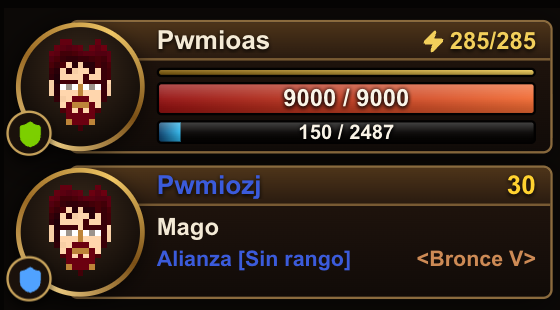
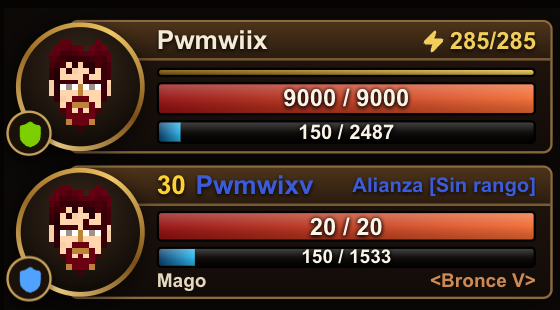
HUD: el objetivo usuario muestra vida y maná, con el bando y su rango en la banda
- El server manda la vida y el maná del usuario clickeado en targetState.
  Se refrescan solos en el chequeo de estados.
- El marco del objetivo usuario, del mismo tamaño que antes:
  - banda: nivel, nombre y, a la derecha, el bando con su rango
    ("Alianza [Sin rango]"), en el color del bando;
  - barras de vida y de maná ("Sin maná" si la clase no tiene);
  - un renglón con la clase (más clan y Newbie) y la liga de ranked.

diff --git a/frontend/components/TargetUnitFrame.tsx b/frontend/components/TargetUnitFrame.tsx
@@ -8,8 +8,8 @@ import UnitFrameShell, { Bar, HeadPortrait, PortraitBadge, StandingBadge } from 
 
 // El marco del objetivo (escritorio), del mismo tamaño que el del personaje: lo último que clickeaste. Va debajo del
 // marco del personaje cuando nada te persigue (si hay aggro, ese lugar es de la grilla de criaturas).
-// De una criatura: su vida y si es agresiva, neutral o amistosa. De un usuario: lo mismo que dice el clic en la
-// consola (clase, bando, rango y liga); su vida no, porque el clic nunca la mostró.
+// De una criatura: su vida y si es agresiva, neutral o amistosa. De un usuario: su vida y su maná, el bando con su
+// rango, la clase y la liga de ranked.
 
 const NPC_DISPOSITION = {
     agresivo: { label: "Agresivo", name: "text-red-300", tag: "text-red-400", icon: Swords },
@@ -108,6 +108,9 @@ function UserTarget({ target }: { target: Extract<TargetStatePayload, { kind: "u
             badge={<StandingBadge color={target.color} testId="target-frame-standing" />}
             band={
                 <>
+                    <span data-testid="target-frame-level" title="Nivel" className="shrink-0 text-[11px] font-bold leading-none tabular-nums text-amber-300 [text-shadow:0_1px_2px_rgba(0,0,0,0.9)]">
+                        {target.level}
+                    </span>
                     <span
                         data-testid="target-frame-name"
                         className="min-w-0 flex-1 truncate text-[11px] font-semibold leading-none [text-shadow:0_1px_2px_rgba(0,0,0,0.9)]"
@@ -115,26 +118,56 @@ function UserTarget({ target }: { target: Extract<TargetStatePayload, { kind: "u
                     >
                         {target.name}
                     </span>
+                    {/* El bando y su rango (o que está muerto), a la derecha de la banda. */}
                     {target.dead ? (
                         <span className="flex shrink-0 items-center gap-0.5 text-[8px] font-bold uppercase tracking-[0.08em] text-stone-300">
                             <Skull className="h-2.5 w-2.5" /> Muerto
                         </span>
-                    ) : null}
-                    <span data-testid="target-frame-level" title="Nivel" className="shrink-0 text-[11px] font-bold leading-none tabular-nums text-amber-300 [text-shadow:0_1px_2px_rgba(0,0,0,0.9)]">
-                        {target.level}
-                    </span>
+                    ) : (
+                        <span
+                            data-testid="target-frame-standing-line"
+                            className="max-w-[62%] shrink-0 truncate text-[8.5px] font-bold leading-none [text-shadow:0_1px_2px_rgba(0,0,0,0.9)]"
+                            style={{ color: target.color || "#d7c4a4" }}
+                        >
+                            {standingLine}
+                        </span>
+                    )}
                 </>
             }
+            bodyClassName="space-y-[2px] py-[2px]"
         >
-            <div className="flex min-w-0 items-baseline gap-1 text-[10px] font-semibold leading-[12px] text-[#f4ead6]">
+            <Bar
+                testId="target-frame-hp"
+                title={`Vida: ${target.hp}/${target.maxHp}`}
+                value={target.hp}
+                max={target.maxHp}
+                fromColor="#951212"
+                toColor="#f06b34"
+                heightClass="h-[13px]"
+                showText
+                textClass="text-[10px]"
+            />
+            {target.maxMana > 0 ? (
+                <Bar
+                    testId="target-frame-mana"
+                    title={`Maná: ${target.mana}/${target.maxMana}`}
+                    value={target.mana}
+                    max={target.maxMana}
+                    fromColor="#0e436f"
+                    toColor="#2fb8ed"
+                    heightClass="h-[9px]"
+                    showText
+                    textClass="text-[8px]"
+                />
+            ) : (
+                <div data-testid="target-frame-mana" className="flex h-[9px] items-center text-[8px] font-semibold leading-none text-stone-500">
+                    Sin maná
+                </div>
+            )}
+            <div className="flex h-[8px] min-w-0 items-center gap-1 text-[8px] font-semibold leading-none text-[#e6d8bd]">
                 <span className="shrink-0">{target.className}</span>
-                {target.newbie ? <span className="shrink-0 text-[8px] font-bold uppercase text-emerald-300">Newbie</span> : null}
-                {target.clan ? <span className="min-w-0 truncate text-[9px] text-[#cbb18e]">{target.clan}</span> : null}
-            </div>
-            <div className="flex min-w-0 items-baseline gap-1 text-[9px] font-semibold leading-[11px]">
-                <span data-testid="target-frame-standing-line" className="min-w-0 truncate" style={{ color: target.color || "#d7c4a4" }}>
-                    {standingLine}
-                </span>
+                {target.newbie ? <span className="shrink-0 font-bold uppercase text-emerald-300">Newbie</span> : null}
+                {target.clan ? <span className="min-w-0 truncate text-[#cbb18e]">{target.clan}</span> : null}
                 <span className="ml-auto shrink-0 font-bold" style={{ color: target.rankedColor }}>
                     &lt;{target.rankedLabel}&gt;
                 </span>

diff --git a/server/src/protocol.ts b/server/src/protocol.ts
@@ -1118,8 +1118,8 @@ export type ProtocolApi = {
 const protocol = {} as ProtocolApi;
 
 // Marco del objetivo (HUD de escritorio): lo último que el jugador clickeó, una criatura o un usuario, con lo mismo
-// que dice el clic en la consola (de los usuarios no se muestra la vida, como hasta ahora). Se refresca en el chequeo
-// de estados y se borra si el objetivo muere, se va de la vista o deja de verse.
+// que dice el clic en la consola, más la vida y el maná del usuario (pedido de Leandro, como el marco de WoW). Se
+// refresca en el chequeo de estados y se borra si el objetivo muere, se va de la vista o deja de verse.
 const TARGET_FRAME_RANGE_X = 14;
 const TARGET_FRAME_RANGE_Y = 10;
 
@@ -1214,6 +1214,10 @@ function buildTargetFramePayload(viewer: RuntimeCharacter): Record<string, unkno
         rankedColor: RANKED_CONSOLE_COLORS[rank.tier] ?? RANKED_CONSOLE_COLORS.BRONCE,
         newbie: game.isNewbieCharacter(target),
         dead: Boolean(target.dead),
+        hp: Number(target.hp ?? 0),
+        maxHp: Number(target.maxHp ?? 0),
+        mana: Number(target.mana ?? 0),
+        maxMana: Number(target.maxMana ?? 0),
         body: Number(target.idBody ?? 0),
         head: Number(target.idHead ?? 0),
     };

diff --git a/frontend/components/UnitFrameShell.tsx b/frontend/components/UnitFrameShell.tsx
@@ -133,6 +133,7 @@ export default function UnitFrameShell({
     badge,
     dead = false,
     band,
+    bodyClassName = "space-y-[2px] py-[3px]",
     children,
 }: {
     testId: string;
@@ -141,6 +142,8 @@ export default function UnitFrameShell({
     dead?: boolean;
     // Lo que va en la banda del nombre (a la derecha del retrato).
     band: React.ReactNode;
+    // El espaciado de la zona de las barras (el alto no cambia).
+    bodyClassName?: string;
     // La zona de las barras: tiene alto fijo, así los dos marcos miden lo mismo.
     children: React.ReactNode;
 }) {
@@ -163,7 +166,7 @@ export default function UnitFrameShell({
                 <div className="flex h-[16px] items-center gap-1 border-b border-[#8b6b3e]/70 bg-[linear-gradient(180deg,#4d3419_0%,#2a1b10_100%)] pl-9 pr-1.5">
                     {band}
                 </div>
-                <div className="h-[38px] space-y-[2px] py-[3px] pl-9 pr-1.5">{children}</div>
+                <div className={`h-[38px] pl-9 pr-1.5 ${bodyClassName}`}>{children}</div>
             </div>
         </div>
     );

diff --git a/frontend/lib/aowProtocol.ts b/frontend/lib/aowProtocol.ts
@@ -476,7 +476,6 @@ export type BleedStatePayload = { remainingMs: number };
 // Veneno (daño por golpe, 0 = sano), ceguera y estupidez (ms que faltan) del propio personaje.
 export type AfflictionStatePayload = { venenoDmg: number; cegueraMs: number; estupidezMs: number };
 // Lo último que clickeó el jugador, para el marco del objetivo (server/src/protocol.ts, buildTargetFramePayload).
-// De los usuarios no viene la vida: el clic nunca la mostró.
 export type TargetStatePayload =
     | {
           kind: "npc";
@@ -506,6 +505,10 @@ export type TargetStatePayload =
           rankedColor: string;
           newbie: boolean;
           dead: boolean;
+          hp: number;
+          maxHp: number;
+          mana: number;
+          maxMana: number;
           body: number;
           head: number;
       };
